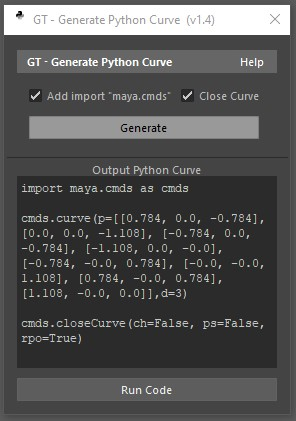
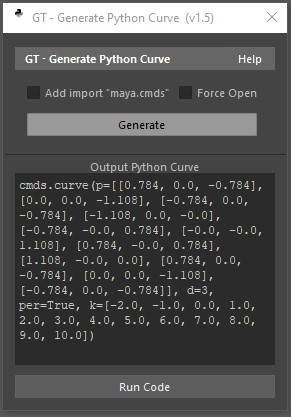
Included generation of periodic curves

diff --git a/python-scripts/gt_generate_python_curve.py b/python-scripts/gt_generate_python_curve.py
@@ -1,8 +1,9 @@
 """
  Python Curve Generator
- @Guilherme Trevisan - TrevisanGMW@gmail.com - 2020-01-02
+ @Guilherme Trevisan - github.com/TrevisanGMW/gt-tools - 2020-01-02
+ 
  1.1 - 2020-01-03
- Minor patch.
+ Minor patch adjustments to the script
  
  1.2 - 2020-06-07
  Fixed random window widthHeight issue.
@@ -16,9 +17,11 @@
  
  1.4 - 2020-06-27
  No longer failing to generate curves with non-unique names
- 
- 1.5 - 2020-11-15
  Tweaked the color and text for the title and help menu
+  
+ 1.5 - 2021-01-26
+ Fixed way the curve is generated to account for closed and opened curves
+ 
  
 """
 
@@ -41,18 +44,19 @@ except ImportError:
 script_name = "GT - Generate Python Curve"
 
 # Version:
-script_version = "1.4"
+script_version = "1.5"
 
 # Default Settings
-close_curve = True
+close_curve = False
 add_import = False
 
 # Function for the "Run Code" button
 def run_output_code(out):
     try:
         exec(out)
-    except:
+    except Exception as e:
         cmds.warning("Something is wrong with your code!")
+        cmds.warning(e)
 
 
 # Main Form ============================================================================
@@ -68,10 +72,6 @@ def build_gui_py_curve():
                           
     cmds.window(window_name, e=True, s=True, wh=[1,1])
     
-    column_main = cmds.columnLayout() 
-
-    form = cmds.formLayout(p=column_main)
-
     content_main = cmds.columnLayout(adj = True)
 
     # Title
@@ -90,7 +90,7 @@ def build_gui_py_curve():
     cmds.rowColumnLayout(nc=1, cw=[(1, 260)], cs=[(1,10)])
 
     settings = cmds.checkBoxGrp(columnWidth2=[150, 1], numberOfCheckBoxes=2, \
-                                label1 = 'Add import \"maya.cmds\" ', label2 = "Close Curve", v1 = add_import, v2 = close_curve)
+                                label1 = 'Add import \"maya.cmds\" ', label2 = "Force Open", v1 = add_import, v2 = close_curve)
                                 
     cmds.rowColumnLayout(nc=1, cw=[(1, 230)], cs=[(1,0)])
     cmds.separator(h=10, style='none') # Empty Space
@@ -113,31 +113,51 @@ def build_gui_py_curve():
         if len(cmds.ls(selection=True)) != 0:
             getcontext().prec = 5
             
-            shape = cmds.listRelatives(cmds.ls(sl=1)[0], s=1 , fullPath=True)[0]
+            sel_one = cmds.ls(sl=1)[0]
+            
+            shape = cmds.listRelatives(sel_one, s=1 , fullPath=True)[0]
             type_checker = str(cmds.objectType(shape))
             
 
             if "nurbsCurve" in type_checker or "bezierCurve" in type_checker:
                 
+                opened_curve = cmds.checkBoxGrp (settings, q=True, value2=True)
+
+                per_state = cmds.getAttr(shape + '.form')
+                knots_string = ''
+                extra_cvs_per = ''
+                is_periodic = False
+                
+                if not opened_curve and per_state == 2:
+                    is_periodic=True
+                    curve_info = cmds.arclen(sel_one, ch=True)
+                    curve_knots = cmds.getAttr( curve_info + '.knots[*]' )
+                    knots_string = ', per=True, k=' + str(curve_knots)
+                    cmds.delete(curve_info)
+
+                
                 cvs = cmds.getAttr(shape+'.cv[*]')
                 cvs_list = []
                 
-                
                 for c in cvs:
                     cvs_list.append([float(Decimal("%.3f" % c[0])),float(Decimal("%.3f" % c[1])),float(Decimal("%.3f" % c[2]))])
-
-                if cmds.checkBoxGrp (settings, q=True, value1=True):
+                
+                if is_periodic and len(cvs) > 2:
+                    extra_cvs_per = ', '
+                    for i in range(3):
+                        if i != 2:
+                            extra_cvs_per += str(cvs_list[i]) + ', '
+                        else:
+                            extra_cvs_per += str(cvs_list[i])
+                
+                if cmds.checkBoxGrp(settings, q=True, value1=True):
                     out = 'import maya.cmds as cmds\n\ncmds.curve(p='
                 else:
                     out = 'cmds.curve(p='
                     
-                out += '[%s]' % ', '.join(map(str, cvs_list))
-                out += ',d='+str(cmds.getAttr(shape+'.degree'))+')'
+                out += '[%s' % ', '.join(map(str, cvs_list))
+                out += extra_cvs_per + '], d='+str(cmds.getAttr(shape+'.degree'))+ knots_string + ')'
                 
-                if cmds.checkBoxGrp (settings, q=True, value2=True):
-                    out += '\n\ncmds.closeCurve(ch=False, ps=False, rpo=True)'
-                else:
-                    pass
                 
                 print ("#" * 100)
                 print out
